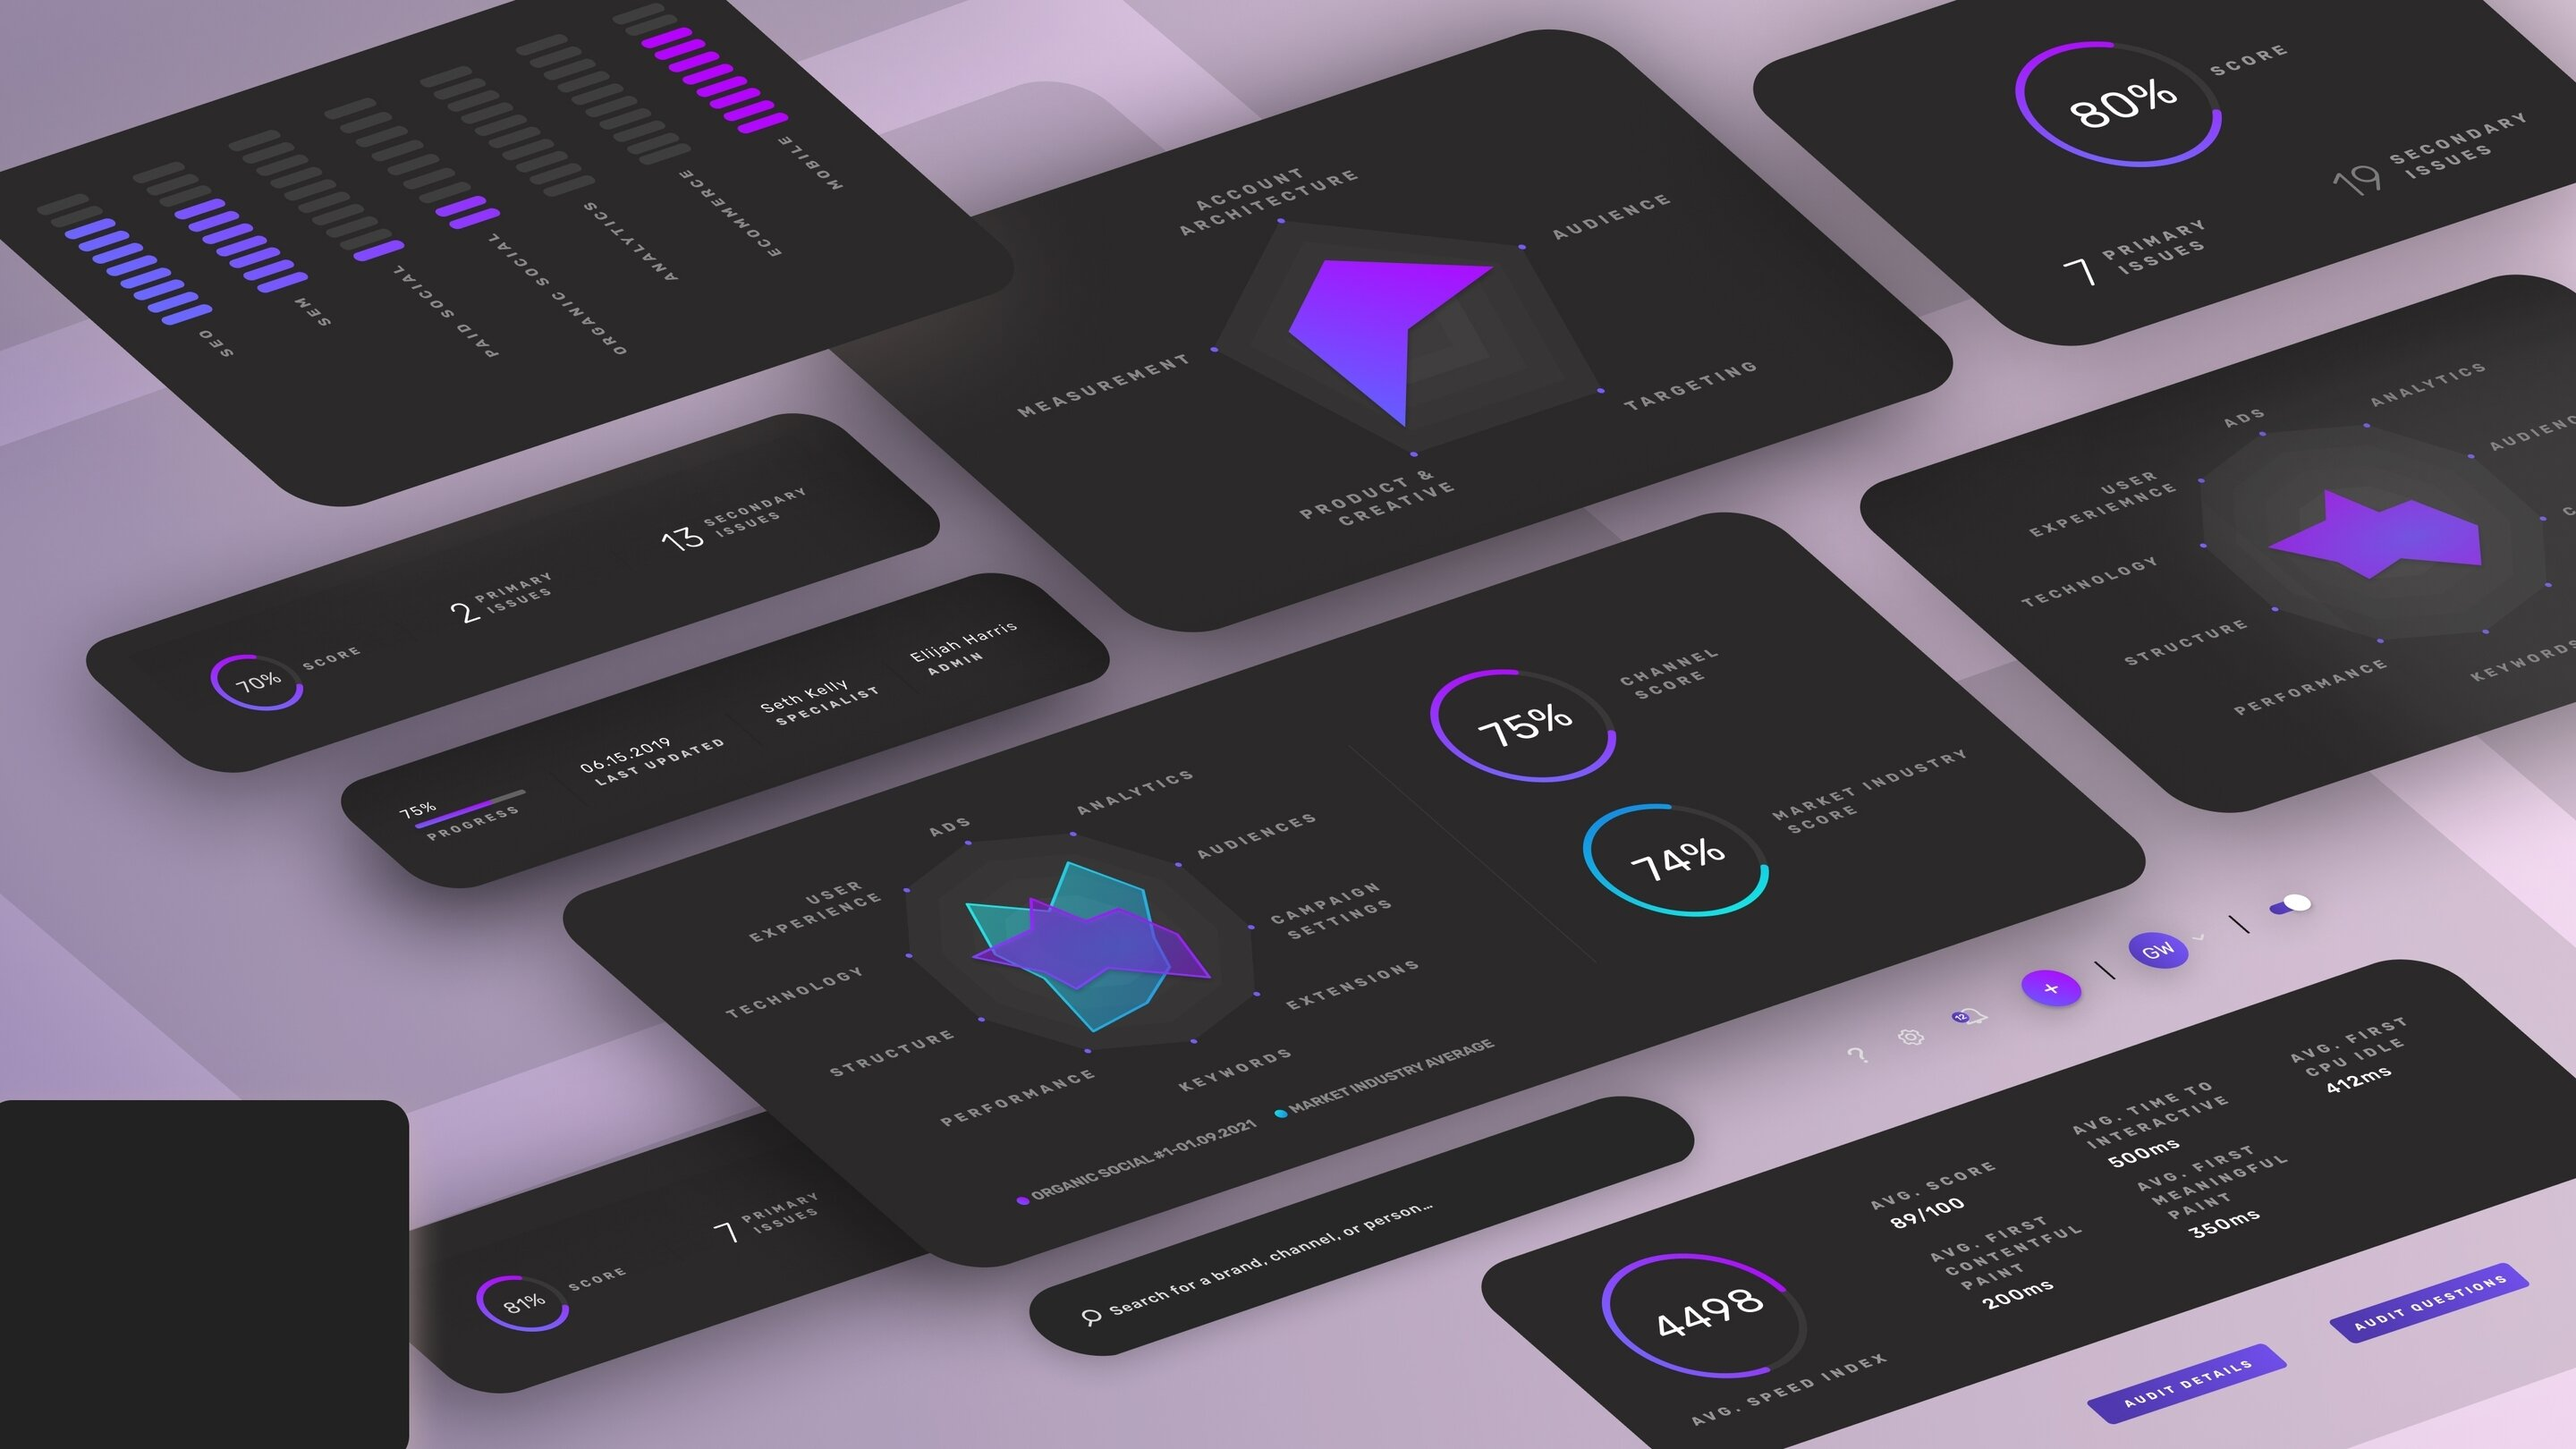
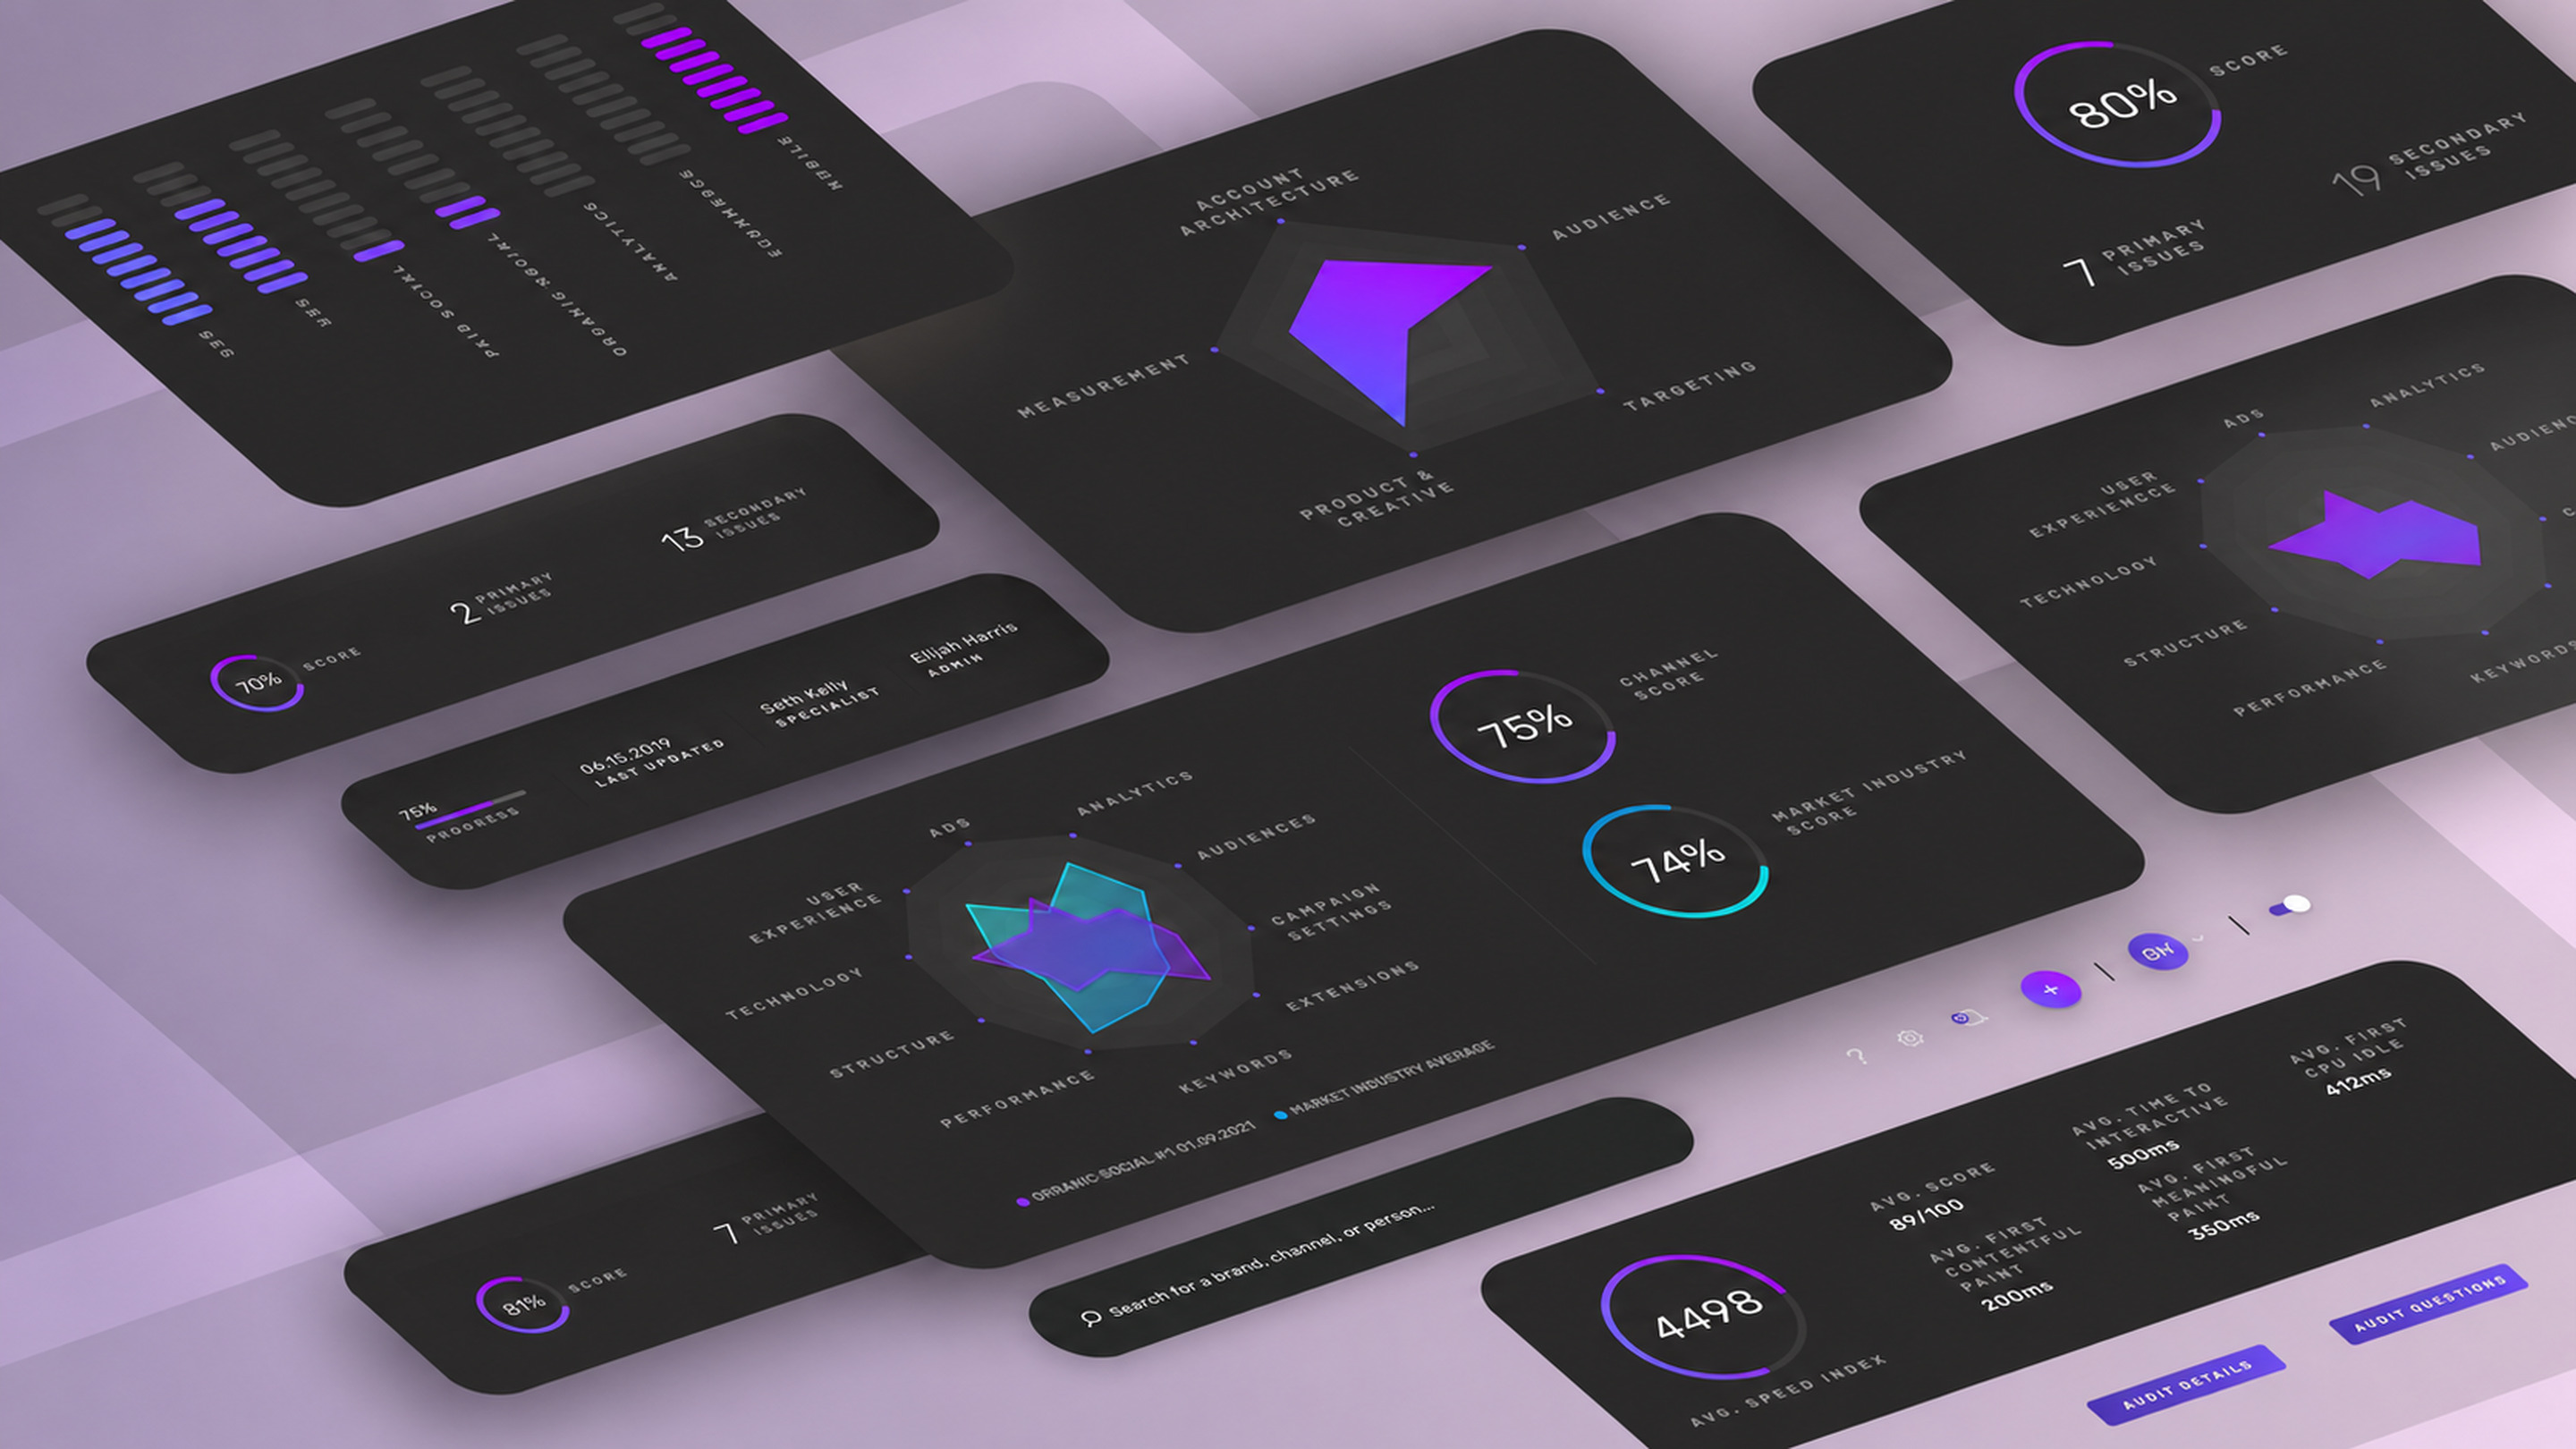
Clean DXA art and retain showcase capabilities

diff --git a/project-06.html b/project-06.html
@@ -55,7 +55,7 @@
     </div>
     <figure class="project-hero-media" data-motion-entry="media">
       <figcaption><span>Digital Audit Experience</span></figcaption>
-      <img src="assets/portfolio-revision/project-06.webp" alt="Digital Audit Experience product visual" width="960" height="540" decoding="async" fetchpriority="high">
+      <img src="assets/portfolio-revision/project-06-clean.webp" alt="Digital Audit Experience product visual" width="960" height="540" decoding="async" fetchpriority="high">
     </figure>
   </div>
 </div>
@@ -102,7 +102,7 @@
 <div class="product-section" id="audit-workflow" data-motion-reveal>
   <div class="product-inner">
     <div class="product-image">
-      <img src="assets/ux-wally/dxa.jpg" alt="Digital Audit Experience hero visual" width="2880" height="1620" loading="lazy" decoding="async" style="--media-ratio: 2880 / 1620">
+      <img src="assets/ux-wally/dxa-clean.jpg" alt="Digital Audit Experience hero visual" width="2880" height="1620" loading="lazy" decoding="async" style="--media-ratio: 2880 / 1620">
     </div>
     <div class="product-text">
       <span class="product-tag">Digital audit product</span>
@@ -197,7 +197,7 @@
         <span>Explore all work <b aria-hidden="true">→</b></span>
       </span>
       <span class="next-project-media">
-        <img src="assets/portfolio-revision/project-06.webp" alt="Digital Audit Experience project preview" width="960" height="540" loading="lazy" decoding="async">
+        <img src="assets/portfolio-revision/project-06-clean.webp" alt="Digital Audit Experience project preview" width="960" height="540" loading="lazy" decoding="async">
       </span>
     </a>
     <div class="nav-projects">

diff --git a/project-07.html b/project-07.html
@@ -188,7 +188,7 @@
         <span>Explore selected work <b aria-hidden="true">→</b></span>
       </span>
       <span class="next-project-media">
-        <img src="assets/portfolio-revision/project-06.webp" alt="Digital Audit Experience from selected work" width="960" height="540" loading="lazy" decoding="async">
+        <img src="assets/portfolio-revision/project-06-clean.webp" alt="Digital Audit Experience from selected work" width="960" height="540" loading="lazy" decoding="async">
       </span>
     </a>
     <div class="nav-projects">

diff --git a/project-05.html b/project-05.html
@@ -243,7 +243,7 @@
         <span>Explore next case <b aria-hidden="true">→</b></span>
       </span>
       <span class="next-project-media">
-        <img src="assets/portfolio-revision/project-06.webp" alt="Digital Audit Experience preview" width="960" height="540" loading="lazy" decoding="async">
+        <img src="assets/portfolio-revision/project-06-clean.webp" alt="Digital Audit Experience preview" width="960" height="540" loading="lazy" decoding="async">
       </span>
     </a>
     <div class="nav-projects">
